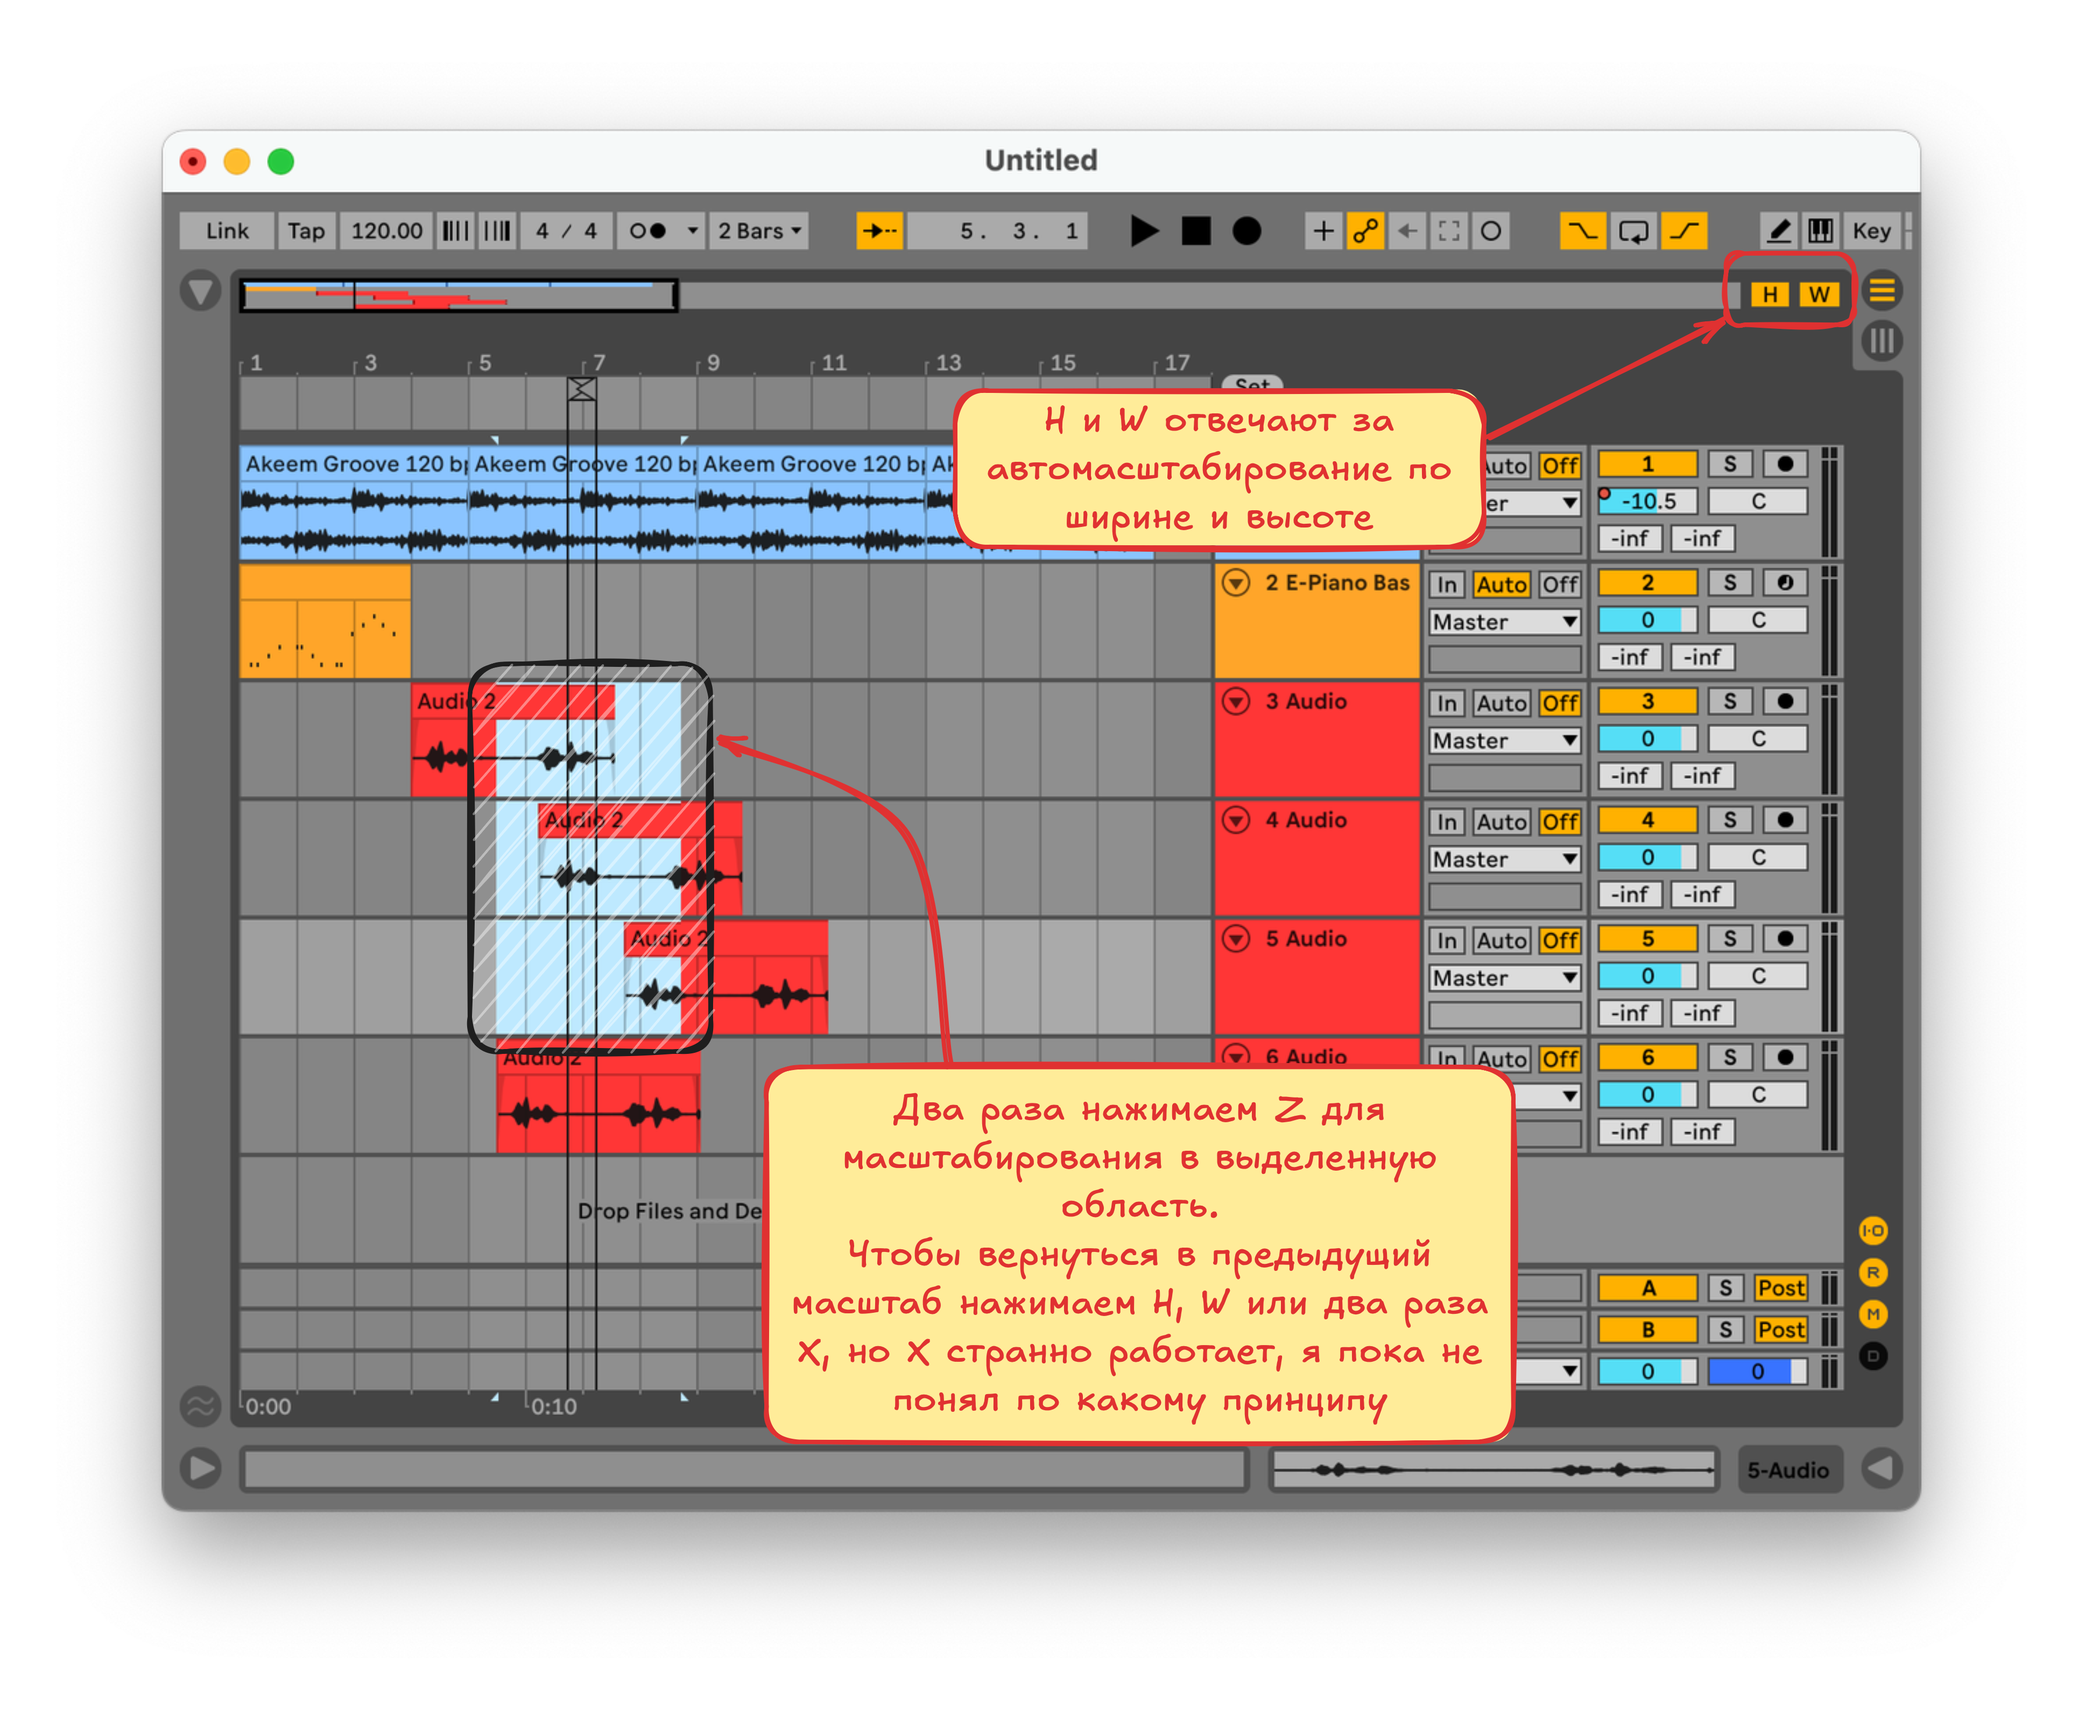
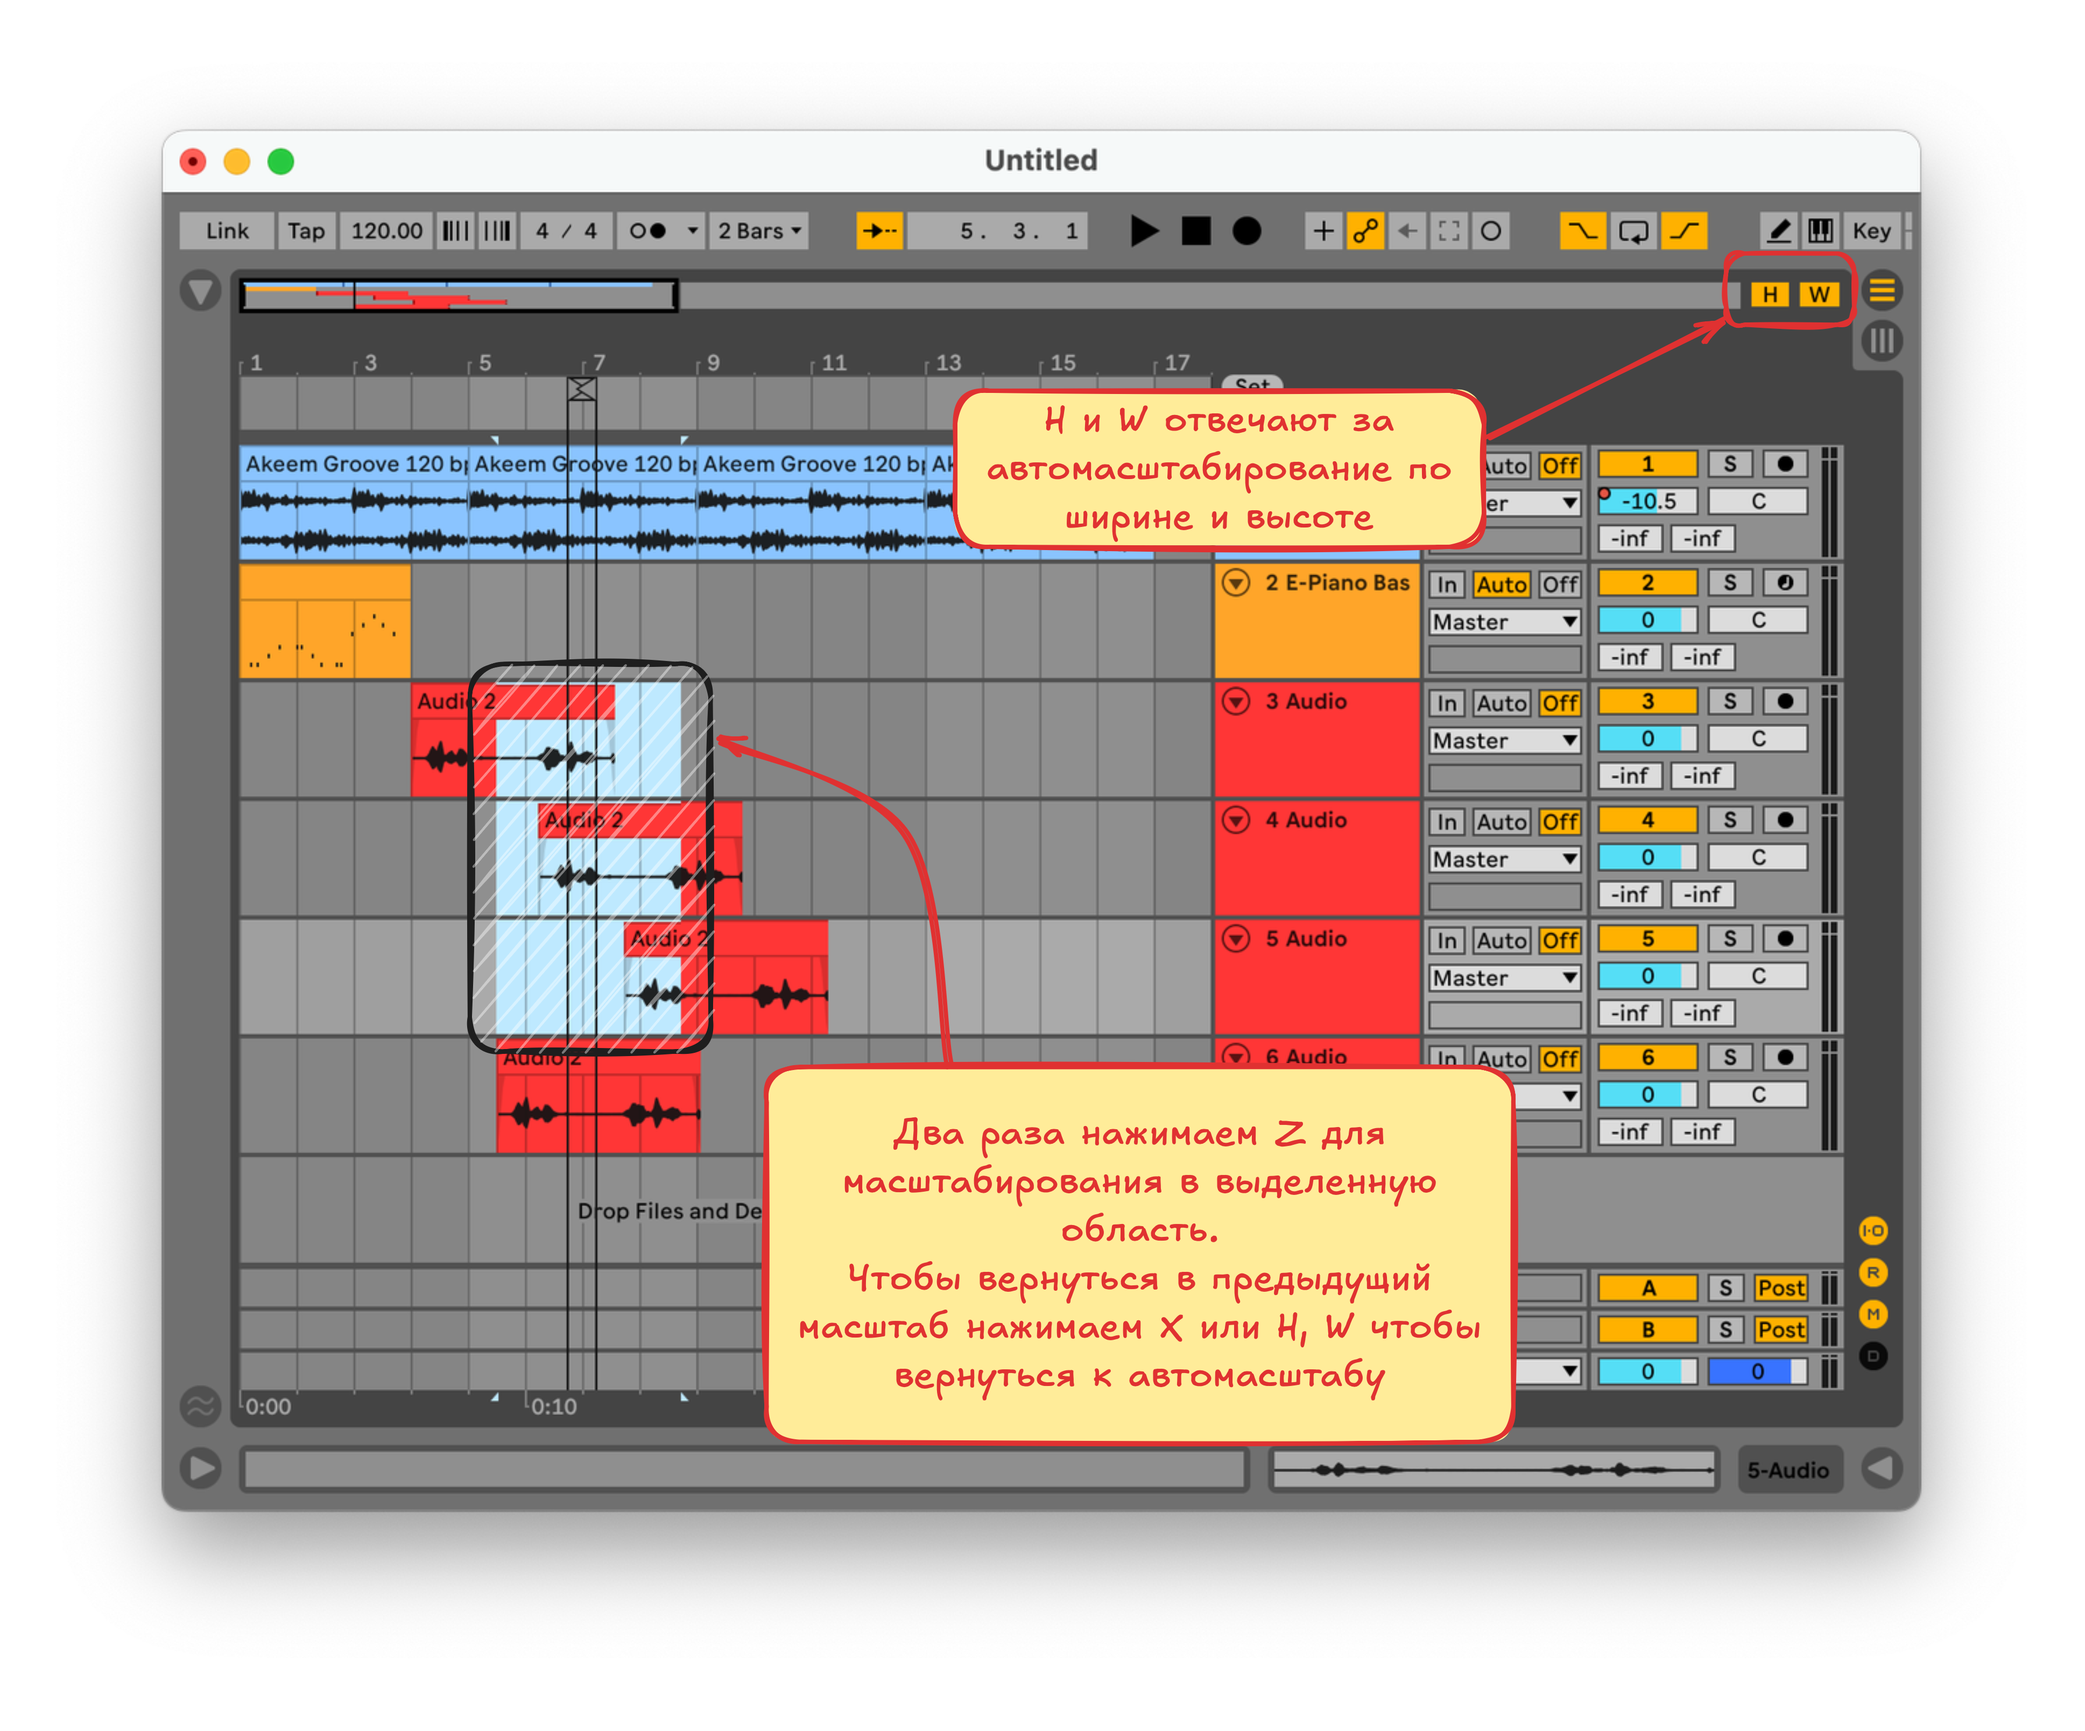
w

Changed region(s): [[0.3748, 0.6219, 0.7184, 0.8396]]

diff --git a/README.md b/README.md
@@ -257,7 +257,7 @@
 
 - На **macOS** поддерживаются жесты тачпада, на **Windows** можно нажать `Ctrl+Alt` для активации инструмента **Hand**. На маке тоже можно нажать `Cmd+Opt` но там удобнее пользоваться тачпадом
 - Изменение масштаба по **горизонтали** производится прокруткой с зажатым `Cmd`. Изменение масштаба по **вертикали** производится прокуткой с зажатым `Opt`, но действует только на одну дорожку, чтобы масштабировать несколько дорожек нужно их выбрать в правой части окна программы, выделить все дорожки можно нажав `Cmd+A`
-- Масштабирование в выделенную область производится нажатием `Z` два раза, первое нажатие масштабирует по горизонтали, второе по вертикали. Чтобы вернуться к предыдущему масштабу можно нажать `H`, `W` или `X`
+- Масштабирование в выделенную область производится нажатием `Z` два раза, первое нажатие масштабирует по горизонтали, второе по вертикали. Чтобы вернуться к предыдущему масштабу можно нажать `X`  или  `H`, `W` чтобы вернуться к автомасштабу
 - `H` и `W` отвечают за автомасштабирование по горизонтали и вертикали
 
 ![image](./images/navigation.png)
